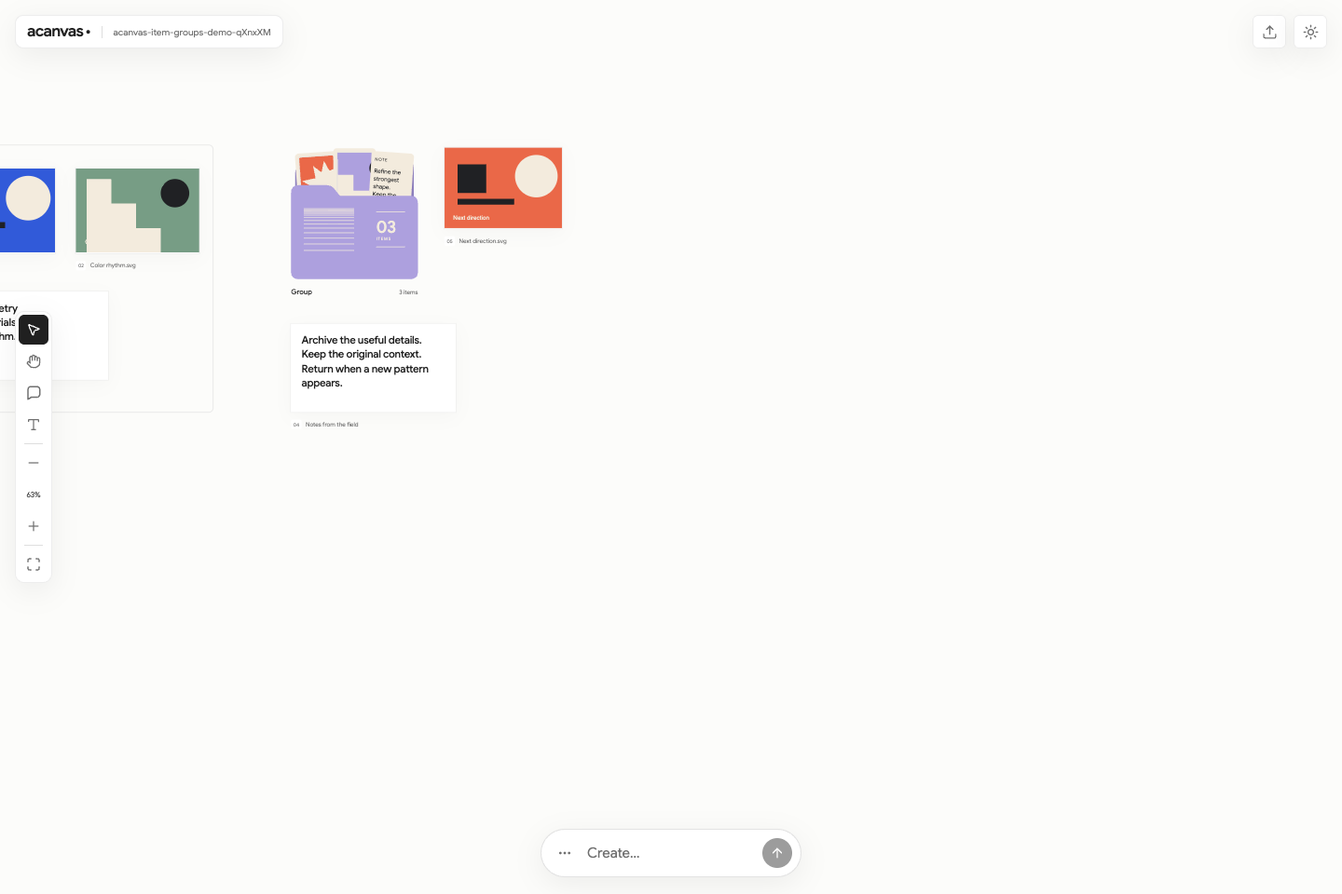
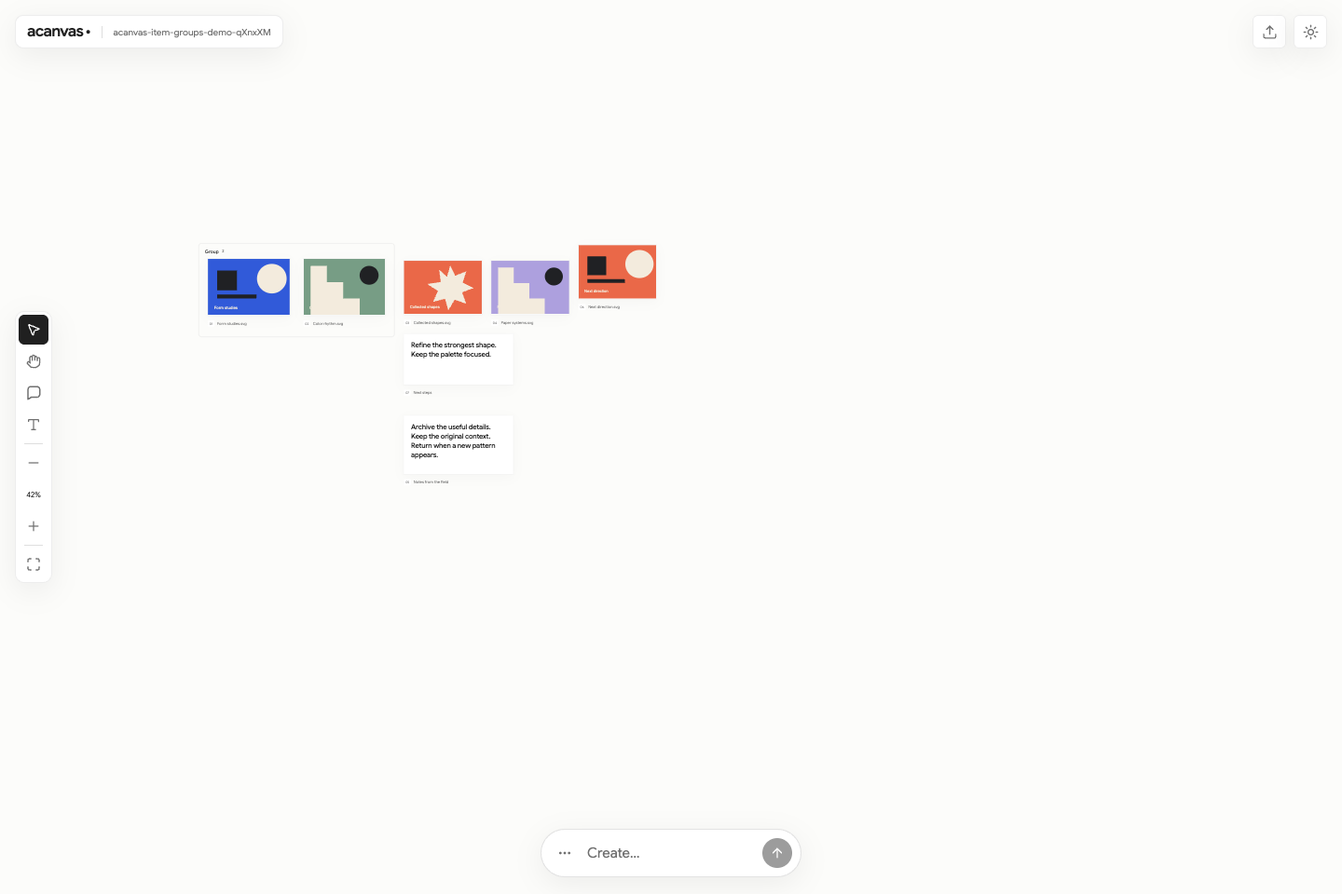
Label group controls with visible action text

diff --git a/src/web/App.tsx b/src/web/App.tsx
@@ -50,6 +50,10 @@ function IconButton({ label, children, className = '', ...props }: { label: stri
   return <button type="button" className={`icon-button ${className}`} title={label} aria-label={label} {...props}>{children}</button>;
 }
 
+function GroupActionButton({ label, children, ...props }: { label: string; children: ReactNode } & React.ButtonHTMLAttributes<HTMLButtonElement>) {
+  return <button type="button" className="group-action" {...props}><span className="group-action-icon" aria-hidden="true">{children}</span><span>{label}</span></button>;
+}
+
 const noteColorChoices: { id: NoteFill | null; label: string }[] = [
   { id: null, label: 'Default' },
   { id: 'sand', label: 'Sand' },
@@ -1064,8 +1068,8 @@ export default function App() {
     void writeLayout([{ type: 'group.update', groupId: group.id, expectedVersion: group.version, changes }], state.session.id);
   }
   function groupActions(group: BoardGroup) {
-    return <><IconButton label="Rename group" disabled={disabled} onClick={() => setRenamingGroupId(group.id)}><Pencil size={16}/></IconButton>
-      <IconButton label={group.mode === 'frame' ? 'Store in folder' : 'Show as frame'} disabled={disabled} onClick={() => updateGroup(group, { mode: group.mode === 'frame' ? 'folder' : 'frame' })}>{group.mode === 'frame' ? <FolderClosed size={16}/> : <Group size={16}/>}</IconButton><IconButton label="Ungroup" disabled={disabled} onClick={() => { if (!state) return; if (activeGroup) leaveGroup(); setSelectedGroupId(''); void writeLayout([{ type: 'group.ungroup', groupId: group.id, expectedVersion: group.version }], state.session.id); }}><svg width="16" height="16" viewBox="0 0 16 16" fill="none" stroke="currentColor" strokeWidth="1.4" strokeLinecap="round" strokeLinejoin="round" aria-hidden="true"><rect x="1" y="2" width="5" height="5" rx=".5"/><rect x="10" y="9" width="5" height="5" rx=".5"/><path d="M5.5 10.5L2 14M2 11v3h3M10.5 5.5L14 2M11 2h3v3"/></svg></IconButton></>;
+    return <div className="group-action-list"><GroupActionButton label="Rename" disabled={disabled} onClick={() => setRenamingGroupId(group.id)}><Pencil size={16}/></GroupActionButton>
+      <GroupActionButton label={group.mode === 'frame' ? 'Store in folder' : 'Expand on board'} disabled={disabled} onClick={() => updateGroup(group, { mode: group.mode === 'frame' ? 'folder' : 'frame' })}>{group.mode === 'frame' ? <FolderClosed size={16}/> : <Group size={16}/>}</GroupActionButton><GroupActionButton label="Ungroup" disabled={disabled} onClick={() => { if (!state) return; if (activeGroup) leaveGroup(); setSelectedGroupId(''); void writeLayout([{ type: 'group.ungroup', groupId: group.id, expectedVersion: group.version }], state.session.id); }}><svg width="16" height="16" viewBox="0 0 16 16" fill="none" stroke="currentColor" strokeWidth="1.4" strokeLinecap="round" strokeLinejoin="round" aria-hidden="true"><rect x="1" y="2" width="5" height="5" rx=".5"/><rect x="10" y="9" width="5" height="5" rx=".5"/><path d="M5.5 10.5L2 14M2 11v3h3M10.5 5.5L14 2M11 2h3v3"/></svg></GroupActionButton></div>;
   }
   function groupName(group: BoardGroup, className = '') {
     return <GroupName group={group} className={className} editing={renamingGroupId === group.id} onCancel={() => setRenamingGroupId('')} onCommit={name => { setRenamingGroupId(''); if (name !== group.name) updateGroup(group, { name }); }}/>;
@@ -1370,7 +1374,7 @@ export default function App() {
 
   return <div className="app-shell" data-capturing={!!captureBusyId || undefined} data-sampling={!!samplingIdentity || undefined}><a className="skip-link" href="#whiteboard">Skip to canvas</a>
     <main className="canvas-main"><div id="whiteboard" className={`whiteboard mode-${spacePan ? 'pan' : mode} ${dragOver ? 'drag-over' : ''} ${board.switching ? 'is-loading' : ''}`} ref={canvas} data-view-id={projectScene?.view?.viewId} data-view-generation={projectScene?.view?.viewGeneration} tabIndex={0} role="region" aria-label="Project board. Enter selects files, arrow keys move them, and Space pans the canvas." onPointerDown={pointerDown} onPointerMove={pointerMove} onPointerUp={pointerUp} onPointerLeave={() => updateMarkHover(null)} onPointerCancel={() => { gesture.current = null; dragAppearance.current = {}; setGroupPosition(null); updateMarkHover(null); setPreview({}); setSelectionRect(null); setSnapGuides([]); setMarkPreview(null); }} onKeyDown={event => { if (event.target !== event.currentTarget || disabled) return; if (event.key === ' ') { event.preventDefault(); setSpacePan(true); } if (event.key === 'Enter' && mode === 'mark') { event.preventDefault(); if (selected.length === 1 && !annotationEdit) enterAnnotation(); else { const point = screenToWorld({ x: canvas.current!.clientWidth / 2, y: canvas.current!.clientHeight / 2 }, view); applyMark({ ...point, width: 0, height: 0 }, 'point', annotationEdit); } } if (event.key === 'Escape') { setReferencePreview([]); if (captureBusyId) void cancelCapture(); else if (annotationRead) closeAnnotation(); else if (annotating) { exitAnnotation(); setMode('select'); } else { clearInspection(); selectObjects([]); setMode('select'); } } if (event.key === '+' || event.key === '=') { event.preventDefault(); zoom(1.2); } if (event.key === '-') { event.preventDefault(); zoom(1 / 1.2); } }} onKeyUp={event => { if (event.key === ' ') setSpacePan(false); }} onBlur={() => setSpacePan(false)} onDragOver={event => { if (event.dataTransfer.types.includes('Files')) { event.preventDefault(); setDragOver(true); } }} onDragLeave={event => { if (!event.currentTarget.contains(event.relatedTarget as Node)) setDragOver(false); }} onDrop={event => { event.preventDefault(); setDragOver(false); void importFiles(filesFromTransfer(event.dataTransfer), localPoint(event)); }}>
-      {activeGroup && <div className="group-navigation" data-canvas-control><IconButton label="Back to board" onClick={leaveGroup}><ArrowLeft size={16}/></IconButton>{groupName(activeGroup, 'group-navigation-name')}<small>{activeGroup.objectIds.length} items</small>{groupActions(activeGroup)}</div>}
+      {activeGroup && <div className="group-navigation" data-canvas-control><div className="group-navigation-header"><GroupActionButton label="Back to board" onClick={leaveGroup}><ArrowLeft size={16}/></GroupActionButton>{groupName(activeGroup, 'group-navigation-name')}<small>{activeGroup.objectIds.length} items</small></div>{groupActions(activeGroup)}</div>}
       <div className={`canvas-world${groupTransition ? ' layout-transitioning' : ''}`} data-transition-kind={groupTransition?.kind} style={{ transform: `translate(${view.x}px,${view.y}px) scale(${view.zoom})` }}>{!activeGroup && groups.map(group => renderGroup(group))}{activeGroup && groups.filter(group => group.id !== activeGroup.id).map(group => renderGroup(group, true))}{activeGroup && groupTransition?.kind === 'enter' && renderGroup(activeGroup, true)}{displayObjects.map((object, index) => { const asset = assetFor(object.assetId); const exterior = exteriorObjects.some(item => item.id === object.id); const departing = departingObjects.some(item => item.id === object.id); const arriving = !!groupTransition && groupTransition.id === object.groupId && (groupTransition.kind === 'enter' || groupTransition.kind === 'expand'); const isSelected = !exterior && !departing && selectedIds.includes(object.id); return <article key={object.id} className={`board-object object-${object.type} ${isSelected ? 'selected' : ''} ${exterior ? 'group-exterior' : ''} ${departing ? 'group-member-departing' : ''} ${arriving ? 'group-member-arriving' : ''}`} inert={exterior || departing} data-moving={gesture.current?.objects.some(item => item.id === object.id) || undefined} aria-hidden={exterior || undefined} data-object-id={object.id} data-content-kind={resolveContentKind(asset)} data-object-version={object.version} data-selected={isSelected || undefined} style={{ left: object.x, top: object.y, width: object.width, height: object.height, ...(dragAppearance.current[object.id] ? { transform: `scale(${dragAppearance.current[object.id].scale})`, transformOrigin: '0 0', opacity: dragAppearance.current[object.id].opacity } : {}), ...(departing && departingGroup ? { transform: `translate(${departingGroup.x + 20 - object.x}px,${departingGroup.y + 16 - object.y}px) scale(.22)` } : {}) }} tabIndex={exterior || departing ? -1 : 0} role="group" aria-label={`${asset?.name || 'File'}${isSelected ? ', selected' : ''}`} onKeyDown={event => { if (event.target !== event.currentTarget || disabled) return; if (event.key === 'Enter' || event.key === ' ') { event.preventDefault(); selectObjects(event.shiftKey ? unique([...selectedIds, object.id]) : [object.id]); } const delta = { ArrowLeft: [-10, 0], ArrowRight: [10, 0], ArrowUp: [0, -10], ArrowDown: [0, 10] }[event.key]; if (delta) { event.preventDefault(); event.stopPropagation(); void board.operations([{ type: 'update', objectId: object.id, expectedVersion: object.version, changes: { x: object.x + delta[0], y: object.y + delta[1] } }]).catch(() => undefined); } }}>
         <div className="object-media"><SceneContentContext.Provider value={{ registry: sceneRegistry, objectId: object.id, width: object.width, height: object.height, captureView: projectScene?.view }}><ContentRenderer asset={asset} src={board.api.content(object.assetId)} api={board.api} onReloadBoard={reloadBoard} onBlankPointerDown={event => { event.stopPropagation(); pointerDown(event, true); }} onFrameWheel={canvasWheel} onFrameDrag={(frame, start, event) => frameDrag(object.id, frame, start, event)} disabled={disabled || annotating || exterior} preserveScene={annotating || !!annotationRead} error={mediaErrors[object.id]} onSize={size => setMediaSizes(current => ({ ...current, [object.id]: size }))} onError={() => setMediaErrors(current => ({ ...current, [object.id]: true }))} onActivate={() => selectObjects([object.id])} onSaveError={board.showError} fill={shownNoteFill(object)} onMediaElement={element => { const refs = resolveContentKind(asset) === 'audio' ? audioRefs.current : videoRefs.current; if (element) (refs as Map<string, HTMLMediaElement>).set(object.id, element); else refs.delete(object.id); }}/></SceneContentContext.Provider></div>
         <div className="object-caption"><span className="object-index">{String(index + 1).padStart(2, '0')}</span><span title={asset?.name}>{asset?.name || 'File'}</span>{object.sourceTaskId && <span className="generated-label">Output</span>}</div>{isSelected && ((capabilityFor(object).freeResize ? ['nw', 'n', 'ne', 'e', 'se', 's', 'sw', 'w'] : ['nw', 'ne', 'sw', 'se']) as ResizeHandle[]).map(corner => <button key={corner} type="button" className="resize-handle" data-resize-id={object.id} data-resize-corner={corner} aria-label={`Resize ${asset?.name || 'File'} ${ { nw: 'top left', n: 'top', ne: 'top right', e: 'right', se: 'bottom right', s: 'bottom', sw: 'bottom left', w: 'left' }[corner]}`} onKeyDown={event => { if (!['ArrowLeft','ArrowRight','ArrowUp','ArrowDown'].includes(event.key) || layoutBusy.current || disabled) return; event.preventDefault(); event.stopPropagation(); const delta = { x: event.key === 'ArrowRight' ? 10 : event.key === 'ArrowLeft' ? -10 : 0, y: event.key === 'ArrowDown' ? 10 : event.key === 'ArrowUp' ? -10 : 0 }; const capability = capabilityFor(object), bounds = capability.freeResize ? resizeViewportBounds(object, corner, delta, capability.minimum) : resizeBounds(object, corner as ResizeCorner, delta); void writeLayout([{ type: 'update', objectId: object.id, expectedVersion: object.version, changes: bounds }], state.session.id); }}/>) }</article>; })}
@@ -1397,7 +1401,7 @@ export default function App() {
       {mode === 'mark' && !spacePan && <div className="canvas-mark-surface" aria-hidden="true"/>}
       {dragOver && <div className="drop-indicator"><Upload size={28}/><span>Drop files onto the canvas</span></div>}
       {!annotationRead && !annotating && (!!selected.length || !!selectedGroup) && <div ref={selectionActions} className={`selection-actions context-control selection-tool-control${selectedGroup ? ' group-hover-actions' : ''}`} data-canvas-control data-group-actions-id={selectedGroup?.id} onPointerEnter={() => { if (selectedGroup) setHoveredGroupId(selectedGroup.id); }} onPointerLeave={event => { if (!(event.relatedTarget as Element | null)?.closest?.(`[data-group-id="${selectedGroup?.id}"]`)) setHoveredGroupId(''); }} onFocusCapture={() => { if (selectedGroup) setFocusedGroupId(selectedGroup.id); }} onBlurCapture={event => { if (!event.currentTarget.contains(event.relatedTarget as Node)) setFocusedGroupId(''); }} onKeyDown={event => { event.stopPropagation(); if (event.key !== 'Escape') return; const flyout = (event.target as Element).closest('.selection-flyout'); const trigger = flyout?.querySelector<HTMLButtonElement>(':scope > .icon-button'); if (trigger && event.target !== trigger) { event.preventDefault(); trigger.focus(); } }}>
-        <div className="selection-primary-tools" role="toolbar" aria-label="Selected file actions">{selectedGroup ? groupActions(selectedGroup) : <>{!activeGroup && selected.length > 1 && selected.every(object => !object.groupId) && <IconButton label="Group selected files" disabled={disabled} onClick={() => void createGroup()}><Group size={16}/></IconButton>}<IconButton label="Remove selected files from canvas" disabled={disabled} onClick={() => void removeSelection()}><Trash2 size={16}/></IconButton>{selectedNote && <SelectionFlyout label="Note color" disabled={disabled} menuLabel="Note color" panelClassName="note-color-menu" role="radiogroup" onMenuLeave={() => setNoteColorHover(undefined)} trigger={<Palette size={16}/>}>{noteColorChoices.map(color => <button key={color.label} type="button" role="radio" className={color.id ? undefined : 'note-color-default'} aria-checked={selectedNote.fill === color.id || (!selectedNote.fill && !color.id)} aria-label={color.label} disabled={disabled} onPointerEnter={() => setNoteColorHover(color.id)} onClick={() => { setNoteFillPending({ objectId: selectedNote.id, fill: color.id }); void board.operations([{ type: 'update', objectId: selectedNote.id, expectedVersion: selectedNote.version, changes: { fill: color.id } }]).catch(() => undefined); }}><span className="note-color-swatch" style={color.id ? { background: noteFillColor[color.id] } : undefined}/></button>)}</SelectionFlyout>}{selected.length > 1 && <SelectionFlyout label="Align" disabled={disabled} menuLabel="Align selected files" panelClassName="alignment-actions" role="toolbar" trigger={<AlignStartVertical size={16}/>}><IconButton label="Align left" disabled={disabled} onClick={() => alignSelection('left')}><AlignStartVertical size={15}/></IconButton><IconButton label="Align horizontal centers" disabled={disabled} onClick={() => alignSelection('horizontal-center')}><AlignCenterVertical size={15}/></IconButton><IconButton label="Align right" disabled={disabled} onClick={() => alignSelection('right')}><AlignEndVertical size={15}/></IconButton><IconButton label="Align top" disabled={disabled} onClick={() => alignSelection('top')}><AlignStartHorizontal size={15}/></IconButton><IconButton label="Align vertical centers" disabled={disabled} onClick={() => alignSelection('vertical-center')}><AlignCenterHorizontal size={15}/></IconButton><IconButton label="Align bottom" disabled={disabled} onClick={() => alignSelection('bottom')}><AlignEndHorizontal size={15}/></IconButton></SelectionFlyout>}</>}</div>
+        <div className="selection-primary-tools" role="toolbar" aria-label="Selected file actions">{selectedGroup ? groupActions(selectedGroup) : <>{!activeGroup && selected.length > 1 && selected.every(object => !object.groupId) && <GroupActionButton label="Group" disabled={disabled} onClick={() => void createGroup()}><Group size={16}/></GroupActionButton>}<IconButton label="Remove selected files from canvas" disabled={disabled} onClick={() => void removeSelection()}><Trash2 size={16}/></IconButton>{selectedNote && <SelectionFlyout label="Note color" disabled={disabled} menuLabel="Note color" panelClassName="note-color-menu" role="radiogroup" onMenuLeave={() => setNoteColorHover(undefined)} trigger={<Palette size={16}/>}>{noteColorChoices.map(color => <button key={color.label} type="button" role="radio" className={color.id ? undefined : 'note-color-default'} aria-checked={selectedNote.fill === color.id || (!selectedNote.fill && !color.id)} aria-label={color.label} disabled={disabled} onPointerEnter={() => setNoteColorHover(color.id)} onClick={() => { setNoteFillPending({ objectId: selectedNote.id, fill: color.id }); void board.operations([{ type: 'update', objectId: selectedNote.id, expectedVersion: selectedNote.version, changes: { fill: color.id } }]).catch(() => undefined); }}><span className="note-color-swatch" style={color.id ? { background: noteFillColor[color.id] } : undefined}/></button>)}</SelectionFlyout>}{selected.length > 1 && <SelectionFlyout label="Align" disabled={disabled} menuLabel="Align selected files" panelClassName="alignment-actions" role="toolbar" trigger={<AlignStartVertical size={16}/>}><IconButton label="Align left" disabled={disabled} onClick={() => alignSelection('left')}><AlignStartVertical size={15}/></IconButton><IconButton label="Align horizontal centers" disabled={disabled} onClick={() => alignSelection('horizontal-center')}><AlignCenterVertical size={15}/></IconButton><IconButton label="Align right" disabled={disabled} onClick={() => alignSelection('right')}><AlignEndVertical size={15}/></IconButton><IconButton label="Align top" disabled={disabled} onClick={() => alignSelection('top')}><AlignStartHorizontal size={15}/></IconButton><IconButton label="Align vertical centers" disabled={disabled} onClick={() => alignSelection('vertical-center')}><AlignCenterHorizontal size={15}/></IconButton><IconButton label="Align bottom" disabled={disabled} onClick={() => alignSelection('bottom')}><AlignEndHorizontal size={15}/></IconButton></SelectionFlyout>}</>}</div>
       </div>}
       {selectedVideo && <VideoPlaybackControls key={selectedVideo.id} objectId={selectedVideo.id} videos={videoRefs.current} disabled={disabled || annotating} onError={board.showError} controlRef={playbackControls}/> }
       <div className="canvas-toolbar" data-canvas-control role="toolbar" aria-label="Board tools"><IconButton disabled={disabled} label="Select files" aria-pressed={mode === 'select'} onClick={() => setMode('select')}><MousePointer2 size={16}/></IconButton><IconButton disabled={disabled} label="Pan canvas" aria-pressed={mode === 'pan'} onClick={() => setMode('pan')}><Hand size={16}/></IconButton><IconButton disabled={disabled} label="Mark canvas" onPointerDown={rememberMarkdownSelection} onKeyDown={event => { if (event.key === 'Enter' || event.key === ' ') rememberMarkdownSelection(); }} aria-pressed={mode === 'mark'} onClick={() => { if (annotationEdit) { updateMarkHover(null); setMode('mark'); canvas.current?.focus({ preventScroll: true }); return; } if (selectedGroupId) { const targetGroup = groups.find(group => group.id === selectedGroupId); if (targetGroup?.mode === 'frame') { enterAnnotation(presentedObjects(allObjects.filter(object => targetGroup.objectIds.includes(object.id))), true); return; } } if (selected.length > 1) { enterAnnotation(); return; } clearInspection(); exitAnnotation(); setMode('mark'); setReferencePreview([]); canvas.current?.focus({ preventScroll: true }); }}><AnnotationBubble size={18} tone="neutral"/></IconButton><IconButton disabled={disabled} label="Add note" aria-pressed={mode === 'note'} onClick={() => { clearInspection(); exitAnnotation(); setMode('note'); canvas.current?.focus({ preventScroll: true }); }}><Type size={16}/></IconButton><span className="toolbar-divider"/><IconButton disabled={disabled} label="Zoom out" onClick={() => zoom(1 / 1.2)}><Minus size={16}/></IconButton><button disabled={disabled} className="zoom-label" title="Reset zoom to 100%" aria-label="Reset zoom to 100%" onClick={() => { zoom(1 / fitMotion.targetView().zoom); }}>{Math.round(view.zoom * 100)}%</button><IconButton disabled={disabled} label="Zoom in" onClick={() => zoom(1.2)}><Plus size={16}/></IconButton><span className="toolbar-divider"/><IconButton disabled={disabled} label="Fit all files" onClick={() => { const size = { width: canvas.current!.clientWidth, height: canvas.current!.clientHeight }; fitMotion.animate({ ...view, ...fitView(fitTargets, size) }); }}><Maximize size={16}/></IconButton></div>

diff --git a/tests/item-groups-ui.test.ts b/tests/item-groups-ui.test.ts
@@ -53,10 +53,10 @@ test('item groups use real selection, folders, navigation, editing and current-l
   // A native marquee selects exactly the three members.
   await page.mouse.move(190, 180); await page.mouse.down(); await page.mouse.move(650, 550, { steps: 8 }); await page.mouse.up();
   await expect(page.locator('.board-object.selected')).toHaveCount(3);
-  await page.getByRole('button', { name: 'Group selected files', exact: true }).click();
+  await page.getByRole('button', { name: 'Group', exact: true }).click();
   await expect(page.locator('.group-frame')).toHaveCount(1);
   let group = f.state().groups[0]; assert.deepEqual(new Set(group.objectIds), new Set([a.id, b.id, n.id]));
-  await page.getByRole('button', { name: 'Rename group', exact: true }).click();
+  await page.getByRole('button', { name: 'Rename', exact: true }).click();
   const name = page.getByRole('textbox', { name: 'Group name', exact: true }); await name.fill('Color studies'); await name.press('Enter');
   await expect.poll(() => f.state().groups[0].name).toBe('Color studies');
   await page.screenshot({ path: join(evidence, 'frame.png') });
@@ -124,7 +124,7 @@ test('item groups use real selection, folders, navigation, editing and current-l
   const narrowFolder = page.getByRole('button', { name: 'Open folder Color studies', exact: true }); await narrowFolder.focus(); await page.keyboard.press('Enter');
   await expect(page.getByRole('button', { name: 'Back to board', exact: true })).toBeVisible();
   await page.screenshot({ path: join(evidence, 'secondary-dark-390.png') });
-  await page.getByRole('button', { name: 'Show as frame', exact: true }).click(); await expect(page.locator('.group-frame')).toHaveCount(1);
+  await page.getByRole('button', { name: 'Expand on board', exact: true }).click(); await expect(page.locator('.group-frame')).toHaveCount(1);
   await page.getByRole('button', { name: 'Select group Color studies', exact: true }).focus(); await page.keyboard.press('Enter');
   await page.getByRole('button', { name: 'Ungroup', exact: true }).click(); await expect(page.locator('.board-group')).toHaveCount(0);
   assert.equal(f.state().objects.length, 7); assert(f.state().objects.every(object => !object.groupId));
@@ -201,7 +201,7 @@ test('layer projection excludes hidden snap targets and keeps asynchronous impor
   await page.setViewportSize({ width: 320, height: 700 });
   const navigation = (await page.locator('.group-navigation').boundingBox())!;
   assert(navigation.x >= 0 && navigation.x + navigation.width <= 320);
-  await page.getByRole('button', { name: 'Rename group', exact: true }).click();
+  await page.getByRole('button', { name: 'Rename', exact: true }).click();
   const name = page.getByRole('textbox', { name: 'Group name', exact: true }); await name.fill('Second'); await name.press('Enter');
   await expect.poll(() => f.state().groups.find(group => group.id === 'group-b')!.name).toBe('Second');
   await page.setViewportSize({ width: 1280, height: 900 });
@@ -234,16 +234,16 @@ test('group names, hover actions, independent selection and camera transitions f
   await f.call('/api/board/operations', { sessionId: f.session.id, operations: [{ type: 'group.create', group: { id: 'archive', name: 'Archive', objectIds: [a.id, b.id], color: 'cobalt' }, expectedVersions: { [a.id]: a.version, [b.id]: b.version } }] });
   const frame = page.locator('[data-group-id="archive"]'); await expect(frame).toBeVisible();
   await page.mouse.click(600, 190); // Empty frame area selects the group.
-  await expect(page.getByRole('button', { name: 'Rename group', exact: true })).toBeVisible();
+  await expect(page.getByRole('button', { name: 'Rename', exact: true })).toBeVisible();
   await expect(page.locator('.board-object.selected')).toHaveCount(0); assert.equal(await frame.getAttribute('class'), 'board-group group-frame');
   const original = (await frame.locator('.group-name-slot').boundingBox())!;
-  await page.getByRole('button', { name: 'Rename group', exact: true }).click();
+  await page.getByRole('button', { name: 'Rename', exact: true }).click();
   const input = page.getByRole('textbox', { name: 'Group name', exact: true }); await expect(input).toBeFocused();
   const box = (await input.boundingBox())!; assert(Math.abs(box.x - original.x) < 1 && Math.abs(box.y - original.y) < 1 && Math.abs(box.width - original.width) < 1);
   const appearance = await input.evaluate(element => { const style = getComputedStyle(element); return [style.borderWidth, style.outlineWidth, style.boxShadow, style.backgroundColor]; });
   assert.deepEqual(appearance, ['0px', '0px', 'none', 'rgba(0, 0, 0, 0)']);
   await input.fill('Cancel'); await input.press('Escape'); assert.equal(f.state().groups[0].name, 'Archive');
-  await page.getByRole('button', { name: 'Rename group', exact: true }).click(); await input.fill('档案');
+  await page.getByRole('button', { name: 'Rename', exact: true }).click(); await input.fill('档案');
   await input.dispatchEvent('compositionstart'); await input.press('Enter'); await expect(input).toBeVisible(); assert.equal(f.state().groups[0].name, 'Archive');
   await input.dispatchEvent('compositionend'); await input.press('Enter'); await expect.poll(() => f.state().groups[0].name).toBe('档案');
   await expect(page.locator('.board-object.selected')).toHaveCount(0);
@@ -262,7 +262,7 @@ test('group names, hover actions, independent selection and camera transitions f
   await expect(page.locator('.canvas-world')).not.toHaveAttribute('data-transition-kind', /.+/);
   await page.mouse.click(1050, 700); // Clear independent selection before testing hover.
   const folder = page.getByRole('button', { name: 'Open folder 档案', exact: true }); await folder.hover();
-  const rename = page.getByRole('button', { name: 'Rename group', exact: true }); await expect(rename).toBeVisible();
+  const rename = page.getByRole('button', { name: 'Rename', exact: true }); await expect(rename).toBeVisible();
   const action = (await rename.boundingBox())!, folderArea = (await folder.boundingBox())!;
   await page.mouse.move(action.x + action.width / 2, folderArea.y - 4, { steps: 4 }); await page.mouse.move(action.x + action.width / 2, action.y + action.height / 2, { steps: 4 });
   await expect(rename).toBeVisible(); await rename.click();
@@ -315,7 +315,7 @@ test('mid-collapse Done copies scaled articles and pointer gestures take over gr
   assert(Math.abs(layer.contentWorldBounds!.width - await page.evaluate(() => (window as any).doneArticleWidth)) < .5);
   assert(layer.worldBounds.height < a.height + 92, 'Caption, outline and shadow remain inside the scaled article bounds.');
   // Expanding then immediately dragging finishes the prior layout and follows the pointer directly.
-  await page.getByRole('button', { name: 'Open folder Motion', exact: true }).hover(); await page.getByRole('button', { name: 'Show as frame', exact: true }).click();
+  await page.getByRole('button', { name: 'Open folder Motion', exact: true }).hover(); await page.getByRole('button', { name: 'Expand on board', exact: true }).click();
   await expect(page.getByRole('button', { name: 'Select group Motion', exact: true })).toBeVisible();
   await page.getByRole('button', { name: 'Select group Motion', exact: true }).click(); await page.getByRole('button', { name: 'Store in folder', exact: true }).click();
   await expect(page.getByRole('button', { name: 'Select files', exact: true })).toBeEnabled();
@@ -324,7 +324,7 @@ test('mid-collapse Done copies scaled articles and pointer gestures take over gr
   const start = (await folder.boundingBox())!; await page.mouse.move(box.x + 140, box.y + 150);
   const moved = (await folder.boundingBox())!; assert(Math.abs(moved.x - start.x - 40) < 1 && Math.abs(moved.y - start.y - 30) < 1);
   await page.mouse.up(); await expect(page.locator('.canvas-world')).not.toHaveAttribute('data-transition-kind', /.+/);
-  await folder.hover(); await page.getByRole('button', { name: 'Show as frame', exact: true }).click();
+  await folder.hover(); await page.getByRole('button', { name: 'Expand on board', exact: true }).click();
   await expect(page.locator('.canvas-world')).not.toHaveAttribute('data-transition-kind', /.+/);
   const group = f.state().groups[0], neighbor = await f.add(image, group.x + group.width + 70, group.y + 100, 120, 80);
   await page.getByRole('button', { name: 'Select group Motion', exact: true }).click(); await page.getByRole('button', { name: 'Store in folder', exact: true }).click();

diff --git a/src/web/styles.css b/src/web/styles.css
@@ -82,7 +82,7 @@ h1,h2,h3,p { margin: 0; }
 .annotation-pin { position: absolute; bottom: calc(100% + 3px); left: -1px; width: 28px; height: 28px; padding: 0; background: transparent; pointer-events: auto; filter: drop-shadow(0 2px 2px #00000012); }
 .whiteboard.mode-annotate .object-image .object-media,.whiteboard.mode-annotate .object-video .object-media { cursor: crosshair; }
 .selection-actions.selection-tool-control { flex-direction: row; gap: 2px; padding: 3px; border-radius: 10px; }
-.selection-primary-tools { display: flex; align-items: center; justify-content: center; gap: 2px; }
+.selection-primary-tools { min-width:0; display: flex; align-items: center; justify-content: center; gap: 2px; }
 .selection-flyout { position: relative; display: flex; }
 .selection-submenu { position: absolute; left: 50%; bottom: calc(100% - 8px); z-index: 2; transform: translateX(-50%); padding-bottom: 20px; visibility: hidden; pointer-events: none; }
 .selection-flyout:hover>.selection-submenu,.selection-flyout:focus-within>.selection-submenu { visibility: visible; pointer-events: auto; }
@@ -496,10 +496,16 @@ details[open] summary svg { rotate: 180deg; }
 .folder-caption small { flex:none; color:var(--muted); font-size:10px; }
 .group-exterior { filter:blur(6px); opacity:.3; pointer-events:none!important; user-select:none; }
 .group-exterior * { pointer-events:none!important; }
-.group-navigation { position:absolute; top:64px; left:16px; z-index:20; display:flex; align-items:center; gap:5px; padding:3px; max-width:calc(100% - 32px); border:1px solid var(--edge); background:var(--surface); border-radius:10px; box-shadow:var(--float-shadow); }
+.group-navigation { position:absolute; top:64px; left:16px; z-index:20; display:flex; flex-wrap:wrap; align-items:center; gap:5px; padding:3px; max-width:calc(100% - 32px); border:1px solid var(--edge); background:var(--surface); border-radius:10px; box-shadow:var(--float-shadow); }
+.group-action-list { display:flex; flex-wrap:wrap; align-items:center; gap:2px; min-width:0; max-width:100%; }
+.group-action { display:inline-flex; align-items:center; justify-content:center; flex:0 0 auto; gap:6px; height:32px; min-height:32px; padding:0 8px; border:0; border-radius:6px; background:transparent; color:var(--ink); font-family:inherit; font-size:12px; font-weight:400; line-height:16px; white-space:nowrap; }
+.group-action:hover:not(:disabled) { background:var(--soft); color:var(--ink); }
+.group-action-icon { color:var(--muted); display:flex; flex:none; align-items:center; justify-content:center; width:16px; height:16px; }
+.group-action-icon>svg { width:16px; height:16px; }
+.group-navigation-header { display:flex; align-items:center; gap:5px; min-width:0; }
 .group-navigation-name { min-width:0; font-size:12px; font-weight:500; padding-inline:3px; overflow:hidden; text-overflow:ellipsis; white-space:nowrap; max-width:200px; }
-.group-navigation>small { flex:none; color:var(--muted); font-size:10px; margin-right:6px; }
-@media(max-width:540px) { .group-navigation { top:62px; left:14px; max-width:calc(100% - 28px); } .group-navigation-name { max-width:100px; } .group-navigation>small { display:none; } .group-navigation .icon-button { flex:none; min-width:32px; min-height:32px; } }
+.group-navigation-header>small { flex:none; color:var(--muted); font-size:10px; margin-right:6px; }
+@media(max-width:540px) { .group-navigation { top:62px; left:14px; width:calc(100% - 28px); max-width:500px; flex-direction:column; align-items:stretch; } .group-navigation-header { width:100%; } .group-navigation-name { flex:1; max-width:none; } .group-navigation-header>small { display:none; } }
 .group-folder { pointer-events:auto; }
 .group-folder .folder-caption { pointer-events:auto; }
 .group-name-slot { display:inline-block; min-width:0; overflow:hidden; white-space:nowrap; text-overflow:ellipsis; vertical-align:baseline; }

diff --git a/docs/PLAN.md b/docs/PLAN.md
@@ -6,6 +6,10 @@
 - 适用范围：本地项目创作白板、通用 Agent Skill、同一用户的多个 agent 会话。
 - 计划变更通过 Git 记录；本文件的进度区记录实际执行与验收情况。
 
+## Group 操作可读性（2026-10-13）
+
+实施及独立验收完成：Group、Rename、Store in folder、Expand on board、Ungroup 与 Back to board 采用始终可见的 12px 正文色文字、辅助图标和 32px 控件。悬停工具条与二级导航共用动作名称，320/390px 自然分行，原位名称输入保持位置。类型检查、构建和四项既有业务浏览器场景通过（其中一项 Chrome 启动失败后定向复验通过）；独立宽窄屏、hover、键盘、触屏和实际操作验收 PASS。原验收页已更新并实际刷新，用户内容及保存视口保持。规则与结果见[功能设计](ITEM_GROUPS_DESIGN.md)和[专项验证](ITEM_GROUPS_VALIDATION.md)。
+
 ## Item 分组交互与文件夹视觉修订（2026-10-13）
 
 按用户七项反馈及线条疏密追加要求完成 R14 / A15：216×224 封套、六种随机持久纯色与上密下疏的档案细线；文件夹悬停显示操作；组名在原位置编辑，整组选择和编辑保持普通外框及成员外观；空白区域选择和拖动整组；分离方块解组图标；展开、收起、进入、返回与按钮缩放采用约 420ms 非线性过渡。服务/几何 38/38、真实浏览器 4/4、类型检查与构建通过；独立迁移、交互、动效、接管与动态 Done 像素验收 PASS，全部发现闭合。原验收页已恢复匹配的 API/资源并实际刷新，保留用户编辑。详见[功能设计](ITEM_GROUPS_DESIGN.md)及[专项验证](ITEM_GROUPS_VALIDATION.md)。
@@ -475,6 +479,7 @@ Git 提交描述当前行为，可在正文关联阶段、R/A 编号、验证命
 
 | 日期 | 工作 | 验证与状态 |
 | --- | --- | --- |
+| 2026-10-13 | Group 操作可读性 | 创建、改名、收纳/展开、解组和返回采用可见文字与辅助图标，32px 控件、12px 正文色文字，320/390px 保持可读可达。类型检查、构建、四项既有业务场景及独立宽窄屏/键盘/触屏/实际动作验收通过；原验收页已更新。见[专项验证](ITEM_GROUPS_VALIDATION.md) |
 | 2026-10-13 | Group 七项交互与文件夹视觉修订（R14 / A15） | 216×224 纯色封套、渐进线条、hover 操作、原位改名、普通整组外观、空白拖组、分离图标与非线性动效完成。38/38 服务/几何、4/4 浏览器、类型检查与构建通过；独立动效接管零跳位、动态 Done 像素与迁移保护通过，全部发现闭合。见[专项验证](ITEM_GROUPS_VALIDATION.md) |
 | 2026-10-13 | Item group 外框、文件夹与二级画板（R14 / A15） | 实现及独立验收完成；类型检查与构建通过，服务相关 95 通过/2 既有配置跳过/0 失败，最终分组与几何 35/35、生产 Chrome 2/2、独立浏览器 9 组、吸附/外框增量 4/4 及文件夹名称间距通过。纯色封套、前三项预览、六种持久纹理、顺序收拢、层级编辑/批注/导入及视口恢复可用。使用隔离项目；范围见[专项验证](ITEM_GROUPS_VALIDATION.md) |
 | 2026-10-05 | 空画布与短暂更新提示 | 实现及独立验收完成：移除空画布占位；普通反馈独立 2.8 秒过期，仅短时重叠形成薄背板，无角标、展开操作或焦点抢占。最终构建、专项浏览器 3/3 通过；独立复验覆盖真实计时、六组宽度/主题、触屏、必要恢复操作及窄屏重新出现避让。见[验证记录](VALIDATION.md) |

diff --git a/README.md b/README.md
@@ -130,9 +130,9 @@ Images, video, GIF, Markdown, audio, and HTML share import, selection, layout, a
 | Audio | A compact, unified player contains embedded artwork, the track name, playback controls, and a complete amplitude waveform. Click or drag the waveform to seek across the whole track. Audio references can include specific times or intervals. |
 | HTML | Current-page controls send pointer and keyboard input to the persistent preview. Ordinary wheel and trackpad scrolling over the preview or its controls pans the canvas; Ctrl/Meta-wheel and trackpad pinch zoom it. Each view supports four active instances, with sixteen active instances per project. Previews waiting for project-wide or retained-surface capacity continue automatically after resources are released; the per-view limit produces a clear capacity error. Drag the filename to move the block, and use eight resize handles to adjust width and height independently. |
 
-Select two or more main-board items and choose Group to frame them. Drag the group title to move its members together, rename it, or choose Store in folder. The folder stays at the frame's top-left corner and shows the first three items in creation order. Open it to edit its board; Back to board restores the main-board camera. Items added inside the folder join that group. Show as frame expands its current contents, and Ungroup keeps every item and material.
+Select two or more main-board items and choose Group to frame them. Drag the group title or its empty frame area to move its members together. Choose Rename to edit the name in place, or Store in folder to collect its contents. The folder stays at the frame's top-left corner and shows the first three items in creation order. Open it to edit its board; Back to board restores the main-board camera. Items added inside the folder join that group. Expand on board expands its current contents, and Ungroup keeps every item and material.
 
-Folding first brings right-hand items closer, then items below, with 24px spacing. Other groups move together. Expanding makes space in the same order. Folder colors persist across refreshes. The 216×224 folder cover uses aligned archive lines and the first three item previews. Creation chooses cobalt, sage, coral, lilac, ink, or sand at random; CLI creation can provide `color` explicitly. Its 216×256 layout includes the name below the cover. Groups belong to the project and are shared across task contexts; each context retains its current board view.
+Folding first brings right-hand items closer, then items below, with 24px spacing. Other groups move together. Expanding makes space in the same order. Group, Rename, Store in folder, Expand on board, Ungroup, and Back to board have visible text labels. Folder hover actions and the folder board use the same action names and order; narrow screens wrap the actions across rows. Folder colors persist across refreshes. The 216×224 folder cover uses aligned archive lines and the first three item previews. Creation chooses cobalt, sage, coral, lilac, ink, or sand at random; CLI creation can provide `color` explicitly. Its 216×256 layout includes the name below the cover. Groups belong to the project and are shared across task contexts; each context retains its current board view.
 
 The CLI uses the same board operations. Read current object/group versions before changes:
 

diff --git a/docs/ITEM_GROUPS_VALIDATION.md b/docs/ITEM_GROUPS_VALIDATION.md
@@ -2,6 +2,17 @@
 
 日期：2026-10-13（Asia/Shanghai）。分支：`codex/item-groups-folders`。范围：R14 / A15，设计见 [ITEM_GROUPS_DESIGN.md](ITEM_GROUPS_DESIGN.md)。测试数据均在独立临时项目；本轮保持用户实际白板与运行服务原状。
 
+## Group 操作文字
+
+实施及独立验收完成。Group、Rename、Store in folder、Expand on board、Ungroup 与 Back to board 采用始终可见的 12px 正文色文字和辅助色图标，控件高度 32px。悬停操作条和二级导航共用动作，窄屏自然分行。
+
+- `npm run typecheck`、`git diff --check`：通过。
+- `.runtime/node_modules/node/bin/node node_modules/vite/bin/vite.js build --configLoader runner --outDir /private/tmp/acanvas-group-action-labels-web-r2`：通过，候选资源 `main-CCrP2pxO.js` / `main-pML5kT0l.css`。
+- `ACANVAS_TEST_WEB_ROOT=/private/tmp/acanvas-group-action-labels-web-r2 .runtime/node_modules/node/bin/node --test dist/tests/item-groups-ui.test.js`：四项业务场景均取得通过结果。整轮为 3 通过、1 项 Chrome 启动阶段 CVDisplayLink/15 秒超时，该项尚未建立页面和对象；按相同候选、相同命令增加 `--test-name-pattern='group names, hover actions'` 定向复验 1/1 通过。原始失败与复验输出保留，无产品重试逻辑。
+- 独立 Chrome：1280px 浅色、390px 浅色、320px 深色、390px 触屏/coarse 均通过。创建、改名与取消、收纳/展开、返回、解组保留成员，hover 桥接及键盘/触屏均实际操作。文字与按钮在 viewport 内完整呈现；320px folder 工具条 296×74、二级导航 292×111，自动换行。三处名称输入内容盒位置/尺寸差小于 1px，普通外观保持。
+
+原 58785 项目和会话使用该固定资源目录，页面实际加载新资源，零 pageerror；本次服务更新未提交白板变更。主智能体刷新原 in-app tab，并恢复更新前的 Group 选择与两项引用预览，实际可见 Rename、Store in folder、Ungroup 文字。源码与文档独立审查 PASS，无阻断问题。截图：[操作近图](evidence/item-groups/action-labels-closeup.png)、[宽屏](evidence/item-groups/action-labels.png)、[320px](evidence/item-groups/action-labels-320.png)、[390px](evidence/item-groups/action-labels-390.png)。
+
 ## 七项交互与视觉修订
 
 实施及独立验收完成。封套为 216×224，完整布局为 216×256；六种随机纯色持久保存，统一档案线条上密下疏，前 3 个实际 item 从顶部露出。悬停显示操作并保持连续命中，frame 空白处选择和拖动整组，item 保持独立操作。frame、folder 和二级导航名称均在原位置编辑，整组保持普通外框与成员外观。Ungroup 采用两个分离方块图标。进入/返回、收起/展开和缩放使用约 420ms 非线性过渡。

diff --git a/docs/VALIDATION.md b/docs/VALIDATION.md
@@ -1,5 +1,9 @@
 # acanvas 验证记录
 
+## Group 操作可读性（2026-10-13）
+
+分组相关动作改为始终可见的英文文字按钮，12px 正文色、辅助图标、32px 高度；320/390px 自然分行。类型检查、构建与四项既有业务场景通过，其中一项 Chrome 启动失败后按原候选定向复验通过；独立宽窄屏、hover、原位改名、模式切换、返回、解组保留成员、键盘和触屏均通过。原验收页已更新并实际刷新。范围、原始失败与复验记录见[专项验证](ITEM_GROUPS_VALIDATION.md)。
+
 ## Group 交互与文件夹视觉修订（2026-10-13）
 
 七项反馈及线条上密下疏要求已完成。服务/几何 38/38、生产 Chrome 4/4，类型检查与构建通过；独立复验纯色比例、hover、三处原位编辑/IME、普通外框、空白命中、累计缩放、立即刷新、窄屏和减少动态效果。实际 pose 拖动接管、旧服务迁移保护、动态 Done 几何与像素均通过；全部发现闭合。原验收页使用匹配 API/固定资源恢复并实际刷新，保留已有用户编辑。命令、范围、像素差异和截图见[专项验证](ITEM_GROUPS_VALIDATION.md)。
